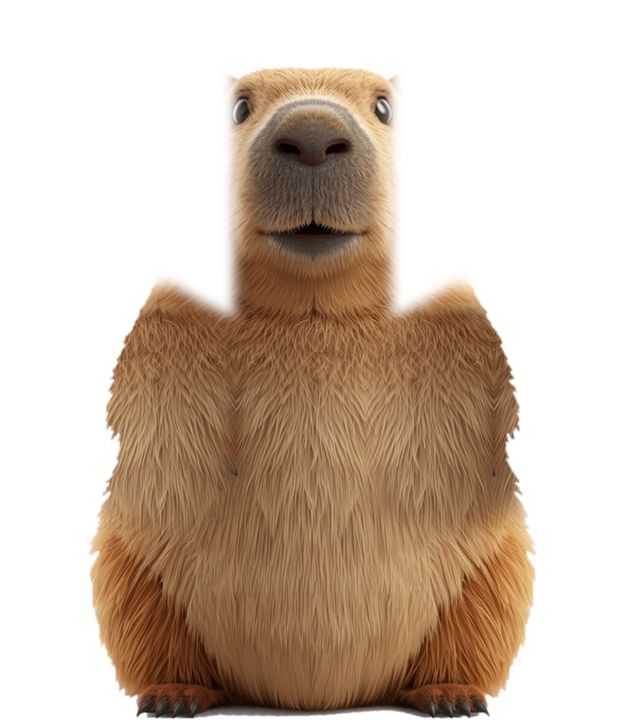
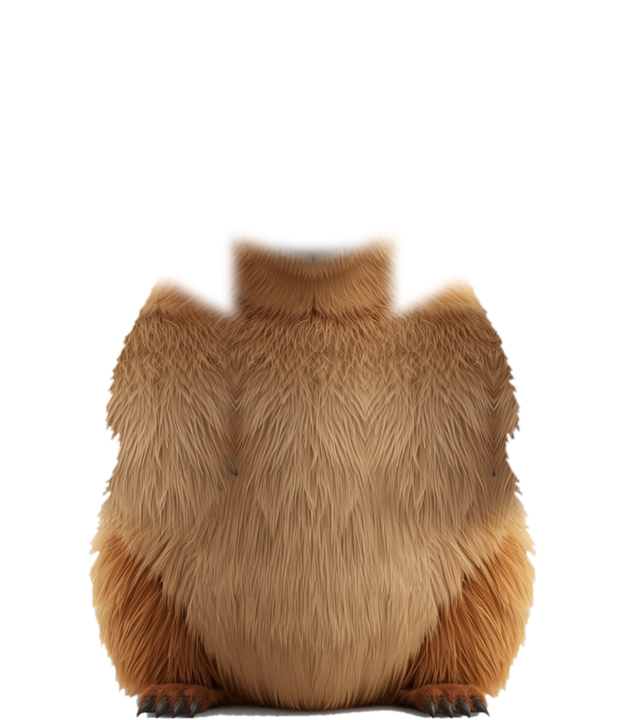
머리 잔상 제거, 눈 키우기, 먹인 만큼 몸이 붇게
**머리 잔상**(사용자 지적: 아기가 당근 먹을 때 머리 위에 윤곽이 하나 더).
몸통에 남겨 둔 목 기둥이 **정수리까지 뻗어 있었다.** 고개를 숙이면 머리
조각이 내려가면서 그 기둥의 꼭대기가 머리 위로 드러났다 — 아기는 머리가
몸의 절반이라 조금만 움직여도 위가 비어 특히 눈에 띄었다.

기둥이 필요한 이유는 고개를 돌리거나 젖힐 때 목이 비지 않게 하려는 것뿐이다.
자름선 위로 머리 반지름의 0.55배만 세운다(`NECK_RISE_K`). 하품·두리번 자세를
오프라인으로 돌려 목이 벌어지지 않는 것도 확인했다.

**눈**을 청소년·어른까지 키웠다(성인은 지난번에). 자란 단계일수록 눈이 작고
넓게 벌어져 있어 화면에서 **표정이 아예 안 읽혔다** — 눈이 안 보이면 웃든
놀라든 아무 일도 없었던 것처럼 보인다. 아기·어린이는 원본부터 크고 동그래서
손대지 않았고, 짝꿍도 그대로다(어른보다 눈이 크면 나이가 뒤바뀐다).
눈꺼풀도 함께 키웠다 — 안 키우면 깜빡일 때 커진 눈이 다 안 덮인다.

**먹이면 몸이 붇는다.** 몸무게는 이미 오르고 있었지만 화면에는 아무 변화가
없었다. 가로를 세로보다 훨씬 크게(±14% 대 ±4%) 늘인다 — 같은 비율로 키우면
살찐 게 아니라 그냥 캐릭터가 커진 것처럼 보인다. 발을 축으로 늘이므로 바닥에서
뜨지 않고, 입 위치도 같은 배율로 옮겨 살찐 카피가 허공에서 씹지 않는다.

당근 한 개의 증량을 3‰ → 5‰로 올렸다. 3‰이면 아기(4kg) 기준 12g이라
화면의 숫자가 꿈쩍도 안 해서, 먹였는데 아무 일도 안 일어나는 것처럼 보였다.
수박은 8 → 15‰ — 특별 먹이는 그날의 사건으로 남아야 한다.

Changed region(s): [[0.3648, 0.0917, 0.6384, 0.3667]]

diff --git a/lib/main.dart b/lib/main.dart
@@ -621,8 +621,15 @@ class _HomeScreenState extends State<HomeScreen>
         // 캔버스는 모든 단계가 같지만 **그림이 캔버스를 채우는 비율은 다르다**
         // (아기는 절반). 말풍선·이름표는 캔버스가 아니라 실제 머리 위에 와야 한다.
         final fill = Pet.stageOf(current).scale;
-        final capyTop = feetY - capyH * fill;
         final married = Family.married(current);
+        // **먹인 만큼 몸이 붇는다.** 가로가 세로보다 훨씬 크게 벌어져야
+        // "살쪘다"로 읽힌다 — 같은 비율로 키우면 그냥 캐릭터가 커진 것처럼
+        // 보인다. 발을 축으로 늘이므로 바닥에서 뜨지 않는다.
+        //
+        // 가족이 생기면 1로 둔다. 그때부터는 몸무게라는 개념 자체가 없다.
+        final fatX = married ? 1.0 : pet.widthScale;
+        final fatY = married ? 1.0 : pet.heightScale;
+        final capyTop = feetY - capyH * fill * fatY;
         final lineup = Family.lineup(current, Pet.skinOf(current));
         // 먹이가 날아갈 곳 = **지금 단계 캐릭터의 입**. 캔버스는 모두 같지만
         // 그 안에서 입 높이는 캐릭터마다 다르다(아기는 아래, 어른은 위).
@@ -634,9 +641,12 @@ class _HomeScreenState extends State<HomeScreen>
           final box = capyH * m.scale * CapySkins.bodyAspect;
           final cx = w / 2 + m.x * (w - box) / 2;
           final mm = CapySkins.mouthOf(m.skin);
-          final top = feetY - capyH * m.scale + (m.front ? capyH * 0.07 : 0);
-          return Offset(cx + (mm.dx - 0.5) * box,
-              top + capyH * m.scale * mm.dy);
+          final foot = feetY + (m.front ? capyH * 0.07 : 0);
+          // 몸이 붇으면 입도 그만큼 옆으로·위로 옮겨 간다. 안 맞추면 살찐
+          // 카피가 허공에서 당근을 씹는다. (가족이 생기면 배율이 1이라
+          // 식구 모두에게 그냥 곱해도 된다.)
+          return Offset(cx + (mm.dx - 0.5) * box * fatX,
+              foot - capyH * m.scale * (1 - mm.dy) * fatY);
         }
 
         final mouths = [for (final m in lineup) mouthOfMember(m)];
@@ -693,26 +703,36 @@ class _HomeScreenState extends State<HomeScreen>
                   // 주인공만 움직여서 가족이 인형처럼 보였다.
                   onTap: () => _touchMember(i, m),
                   behavior: HitTestBehavior.opaque,
-                  child: Stack(
+                  // 살이 붙은 만큼 늘여 그린다. **발을 축으로** 늘여야
+                  // 바닥에서 뜨거나 파묻히지 않는다.
+                  child: Transform(
                     alignment: Alignment.bottomCenter,
-                    clipBehavior: Clip.none,
-                    children: [
-                      Positioned(
-                        bottom: -capyH * 0.02,
-                        child: GroundShadow(
-                            width: capyH * m.scale * _fillOf(m.skin) * 0.78),
-                      ),
-                      CapyPerformer(
-                        height: capyH * m.scale,
-                        controller: _ctrlFor(i),
-                        skin: m.skin,
-                        seed: i * 37 + 5,
-                        happy: pet.mood >= 65,
-                        foodOf: () => _heldBy(i),
-                        // 말풍선이 따라다녀야 하는 건 주인공뿐이다.
-                        poseOut: i == 0 ? _selfPose : null,
-                      ),
-                    ],
+                    transform: Matrix4.diagonal3Values(fatX, fatY, 1),
+                    child: Stack(
+                      alignment: Alignment.bottomCenter,
+                      clipBehavior: Clip.none,
+                      children: [
+                        Positioned(
+                          bottom: -capyH * 0.02,
+                          child: GroundShadow(
+                              width: capyH *
+                                  m.scale *
+                                  _fillOf(m.skin) *
+                                  0.78 *
+                                  fatX),
+                        ),
+                        CapyPerformer(
+                          height: capyH * m.scale,
+                          controller: _ctrlFor(i),
+                          skin: m.skin,
+                          seed: i * 37 + 5,
+                          happy: pet.mood >= 65,
+                          foodOf: () => _heldBy(i),
+                          // 말풍선이 따라다녀야 하는 건 주인공뿐이다.
+                          poseOut: i == 0 ? _selfPose : null,
+                        ),
+                      ],
+                    ),
                   ),
                 ),
               ),

diff --git a/lib/pet/pet.dart b/lib/pet/pet.dart
@@ -106,7 +106,11 @@ class Pet {
     satiety += 22;
     mood += 4;
     // 먹인 만큼 찐다. 시간당 정산(±7‰)만 있으면 먹이는 손맛이 없다.
-    weightDeltaPm += 3;
+    //
+    // 3‰이면 아기(4kg) 기준 한 개에 12g이라 화면의 숫자가 꿈쩍도 안 했다 —
+    // 먹였는데 아무 일도 안 일어나는 것처럼 보인다. 5‰이면 두세 개마다
+    // 소수점 첫 자리가 움직이고, 몸집도 눈에 띄게 붇는다(`widthScale`).
+    weightDeltaPm += 5;
     _clamp();
     _save();
     return true;
@@ -117,7 +121,8 @@ class Pet {
     _p.setInt('inv.special', specials - 1);
     satiety += 30;
     mood += 18;
-    weightDeltaPm += 8;
+    // 수박은 특별 먹이다. 당근 세 개 몫은 쪄야 그날의 사건으로 남는다.
+    weightDeltaPm += 15;
     _clamp();
     _save();
     return true;
@@ -169,8 +174,13 @@ class Pet {
           ? PetShape.chubby
           : PetShape.fit;
 
-  /// 체형에 따른 가로 스케일 — 전용 렌더가 오기 전까지의 표현.
+  /// 체중에 따른 **가로** 스케일. 살은 옆으로 붙는다.
+  /// 최대 ±25%의 체중 편차가 가로 ±14%가 된다.
   double get widthScale => 1 + weightDeltaPm / 1000 * 0.55;
+
+  /// 체중에 따른 **세로** 스케일. 가로보다 훨씬 작아야 한다 — 같은 비율로
+  /// 키우면 살찐 게 아니라 그냥 캐릭터가 커진 것처럼 보인다.
+  double get heightScale => 1 + weightDeltaPm / 1000 * 0.16;
 
   String get shapeLabel => switch (shape) {
         PetShape.slim => '홀쭉',

diff --git a/lib/art/capy_rig.dart b/lib/art/capy_rig.dart
@@ -96,11 +96,11 @@ class CapySkins {
     'stage1': [0.4970, 0.7974, 0.0454, 0.0336, 0.4121, 0.5879, 0.6276],
     'stage2': [0.4970, 0.5711, 0.0393, 0.0313, 0.4242, 0.5727, 0.4237,
                0.3833, 0.5842, 0.6136, 0.5842],
-    'stage3': [0.5030, 0.4658, 0.0363, 0.0380, 0.4121, 0.5879, 0.2763,
+    'stage3': [0.5030, 0.4658, 0.0514, 0.0380, 0.4121, 0.5879, 0.2763,
                0.3000, 0.5263, 0.6985, 0.5263],
     'stage4': [0.5000, 0.4684, 0.0545, 0.0425, 0.3712, 0.6212, 0.1513,
                0.2818, 0.4724, 0.7152, 0.4724],
-    'stage5': [0.5076, 0.4289, 0.0303, 0.0503, 0.3636, 0.6439, 0.0789,
+    'stage5': [0.5076, 0.4289, 0.0454, 0.0503, 0.3636, 0.6439, 0.0789,
                0.2424, 0.4895, 0.7561, 0.4895],
     'mate':   [0.4970, 0.4553, 0.0424, 0.0403, 0.3970, 0.6061, 0.2566,
                0.3333, 0.5263, 0.6652, 0.5263],

diff --git a/tool/rig_stages.py b/tool/rig_stages.py
@@ -55,18 +55,18 @@ SPECS = [
     Spec('s2', 328, 97, 428, 398, [(280, 322), (378, 322)], 13,
          (328, 400, 44, 28),
          [(242, 507, 32, 75), (416, 507, 32, 75)], [(253, 444), (405, 444)], [289, 371]),
-    Spec('s3', 332, 120, 348, 312, [(272, 210), (388, 210)], 12,
+    # 청소년·성인·어른은 눈을 부풀렸다(tool/bigger_eyes.py) — 눈꺼풀도
+    # 같이 커져야 깜빡일 때 눈이 다 안 덮인다.
+    Spec('s3', 332, 120, 348, 312, [(272, 210), (388, 210)], 17,
          (330, 300, 55, 34),
          [(182, 487, 40, 99), (476, 487, 39, 99)], [(198, 400), (461, 400)], [231, 433]),
     # 성인·어른은 목이 없다시피 하다. 자름선을 가슴까지 내려 "머리"에 윗가슴을
     # 함께 물린다 — 실제로도 이런 몸은 고개만 돌지 않고 상체째 돈다.
-    # 성인은 눈을 2배로 부풀렸다(tool/bigger_eyes.py) — 눈꺼풀도 같이 커져야
-    # 깜빡일 때 눈이 다 안 덮인다.
     Spec('s4', 330, 150, 350, 300, [(245, 115), (410, 115)], 18,
          (330, 225, 65, 38),
          [(162, 441, 55, 93), (496, 441, 56, 93)], [(186, 359), (472, 359)], [221, 414]),
     # 어른 — 주둥이가 크고 회색이라 턱 타원도 크다.
-    Spec('s5', 335, 155, 320, 272, [(240, 60), (425, 60)], 10,
+    Spec('s5', 335, 155, 320, 272, [(240, 60), (425, 60)], 15,
          (322, 190, 75, 45),
          [(133, 455, 61, 116), (525, 455, 60, 116)], [(160, 372), (499, 372)], [213, 447]),
     # 배우자 — 어른보다 작고 얼굴이 둥글다. 성인과 비슷한 몸매.
@@ -94,8 +94,20 @@ def ramp(size, y_at, span, invert):
     return m
 
 
+# 목 기둥을 자름선 위로 얼마나 세울까(머리 반지름 대비).
+#
+# **정수리까지 세우면 안 된다.** 예전엔 이미지 꼭대기까지 남겼는데, 고개를
+# 숙이면 머리 조각이 내려가면서 그 기둥의 꼭대기가 머리 **위로 드러났다**
+# — 머리 윤곽이 하나 더 있는 것처럼 보였다(아기가 당근 먹을 때 특히,
+# 머리가 몸의 절반이라 조금만 움직여도 위가 비었다).
+#
+# 기둥이 필요한 이유는 고개를 돌리거나 젖힐 때 **목 언저리**가 비지 않게
+# 하려는 것뿐이다. 자름선 바로 위 한 뼘이면 충분하다.
+NECK_RISE_K = 0.55
+
+
 def neck_column(size, cut_y, spec):
-    """자름선 위쪽만 목 굵기로 남기는 마스크. 아래는 손대지 않는다.
+    """자름선 위쪽만 목 굵기로 **조금** 남기는 마스크. 아래는 손대지 않는다.
 
     예전 방식은 어깨 높이를 따로 정해 그 위를 전부 좁혔는데, 성인·어른처럼
     몸이 넓으면 좁힌 폭이 실제 몸통보다 좁아 **옆구리가 잘려 나갔다**.
@@ -105,13 +117,14 @@ def neck_column(size, cut_y, spec):
     m = Image.new('L', size, 0)
     d = ImageDraw.Draw(m)
     half = spec.head_half * 0.55
+    rise = spec.head_half * NECK_RISE_K
     for y in range(H):
         d.line([(0, y), (W, y)], fill=255)          # 기본은 전부 남긴다
     for x in range(W):
         top = int(cut_y(x))
-        if abs(x - spec.head_cx) <= half:
-            continue                                 # 목 안쪽 기둥은 위까지 남긴다
-        d.line([(x, 0), (x, top)], fill=0)           # 목 밖은 자름선 위를 지운다
+        # 목 안쪽 기둥은 자름선 위로 한 뼘만 남기고, 그 위는 지운다.
+        keep_to = int(top - rise) if abs(x - spec.head_cx) <= half else top
+        d.line([(x, 0), (x, keep_to)], fill=0)
     return m.filter(ImageFilter.GaussianBlur(6))
 
 

diff --git a/tool/bigger_eyes.py b/tool/bigger_eyes.py
@@ -1,10 +1,10 @@
 #!/usr/bin/env python3
-"""성인(s4) 카피의 **눈만** 키운다.
+"""청소년·성인·어른 카피의 **눈만** 키운다.
 
     python3 tool/bigger_eyes.py && python3 tool/gen_stages.py && python3 tool/rig_stages.py
 
-성인 단계는 눈이 너무 작아 화면에서도 스토어 스크린샷에서도 감은 것처럼
-보였다. 처음엔 Canva로 다시 렌더했는데, 나온 그림이 **햄스터**에 가까웠고
+자란 단계일수록 눈이 작고 넓게 벌어져 있어, 화면에서 **표정이 아예 안
+읽혔다**. 눈이 안 보이면 웃든 놀라든 아무 일도 일어나지 않은 것처럼 보인다. 처음엔 Canva로 다시 렌더했는데, 나온 그림이 **햄스터**에 가까웠고
 청소년(s3)보다 어려 보여서 성장 순서가 뒤집혔다. 얼굴을 통째로 바꾸면
 가족 다섯이 같은 종으로 안 읽힌다.
 
@@ -21,14 +21,22 @@ from PIL import Image
 
 RAW = 'build/stage_raw'
 
-# 눈 중심(원본 1131×1600 좌표)과 부풀릴 반경.
+# 눈을 키울 단계와, 그 단계의 눈 중심(원본 1131×1600 좌표)·반경·배율.
+#
 # 반경은 **주둥이와 귀에 닿기 전**까지다 — 넘어가면 코가 같이 늘어난다.
-EYES = [(440, 328), (698, 332)]
-RADIUS = 78
-
-# 중심에서의 확대 배율. 2.0쯤이 작은 화면에서도 "떴다"가 읽히면서 만화 눈은 되지 않는 선.
-# 2.2를 넘기면 콧등이 눌려 주둥이가 좁아 보인다.
-BOOST = 2.0
+# 배율은 작은 화면에서 "떴다"가 읽히는 선. 2.2를 넘기면 콧등이 눌려
+# 주둥이가 좁아 보인다.
+#
+# 아기(s1)·어린이(s2)는 원본부터 눈이 크고 동그래서 손대지 않는다.
+# 짝꿍(f1)도 그대로 둔다 — 옆에 선 어른보다 눈이 크면 나이가 뒤바뀐다.
+STAGES = {
+    # 청소년 — 눈이 작고 넓게 벌어져 있어 화면에서 표정이 안 읽혔다.
+    's3': ([(444, 344), (700, 344)], 82, 1.70),
+    # 성인 — 가장 심했다. 스토어 스크린샷에서도 감은 것처럼 보였다.
+    's4': ([(440, 328), (698, 332)], 78, 2.00),
+    # 어른 — 주둥이가 커서 눈이 더 밀려나 있다.
+    's5': ([(430, 296), (710, 296)], 80, 1.80),
+}
 
 
 def bloat(img, cx, cy, radius, boost):
@@ -68,15 +76,16 @@ def bloat(img, cx, cy, radius, boost):
 
 
 def main():
-    orig = f'{RAW}/s4_orig.png'
-    if not os.path.exists(orig):
-        os.rename(f'{RAW}/s4.png', orig)
-        print(f'원본을 {orig}로 옮겨 두었다')
-    img = Image.open(orig).convert('RGB')
-    for cx, cy in EYES:
-        bloat(img, cx, cy, RADIUS, BOOST)
-    img.save(f'{RAW}/s4.png')
-    print(f'{RAW}/s4.png — 눈 {BOOST}배')
+    for name, (eyes, radius, boost) in STAGES.items():
+        orig = f'{RAW}/{name}_orig.png'
+        if not os.path.exists(orig):
+            os.rename(f'{RAW}/{name}.png', orig)
+            print(f'원본을 {orig}로 옮겨 두었다')
+        img = Image.open(orig).convert('RGB')
+        for cx, cy in eyes:
+            bloat(img, cx, cy, radius, boost)
+        img.save(f'{RAW}/{name}.png')
+        print(f'{RAW}/{name}.png — 눈 {boost}배')
 
 
 if __name__ == '__main__':
